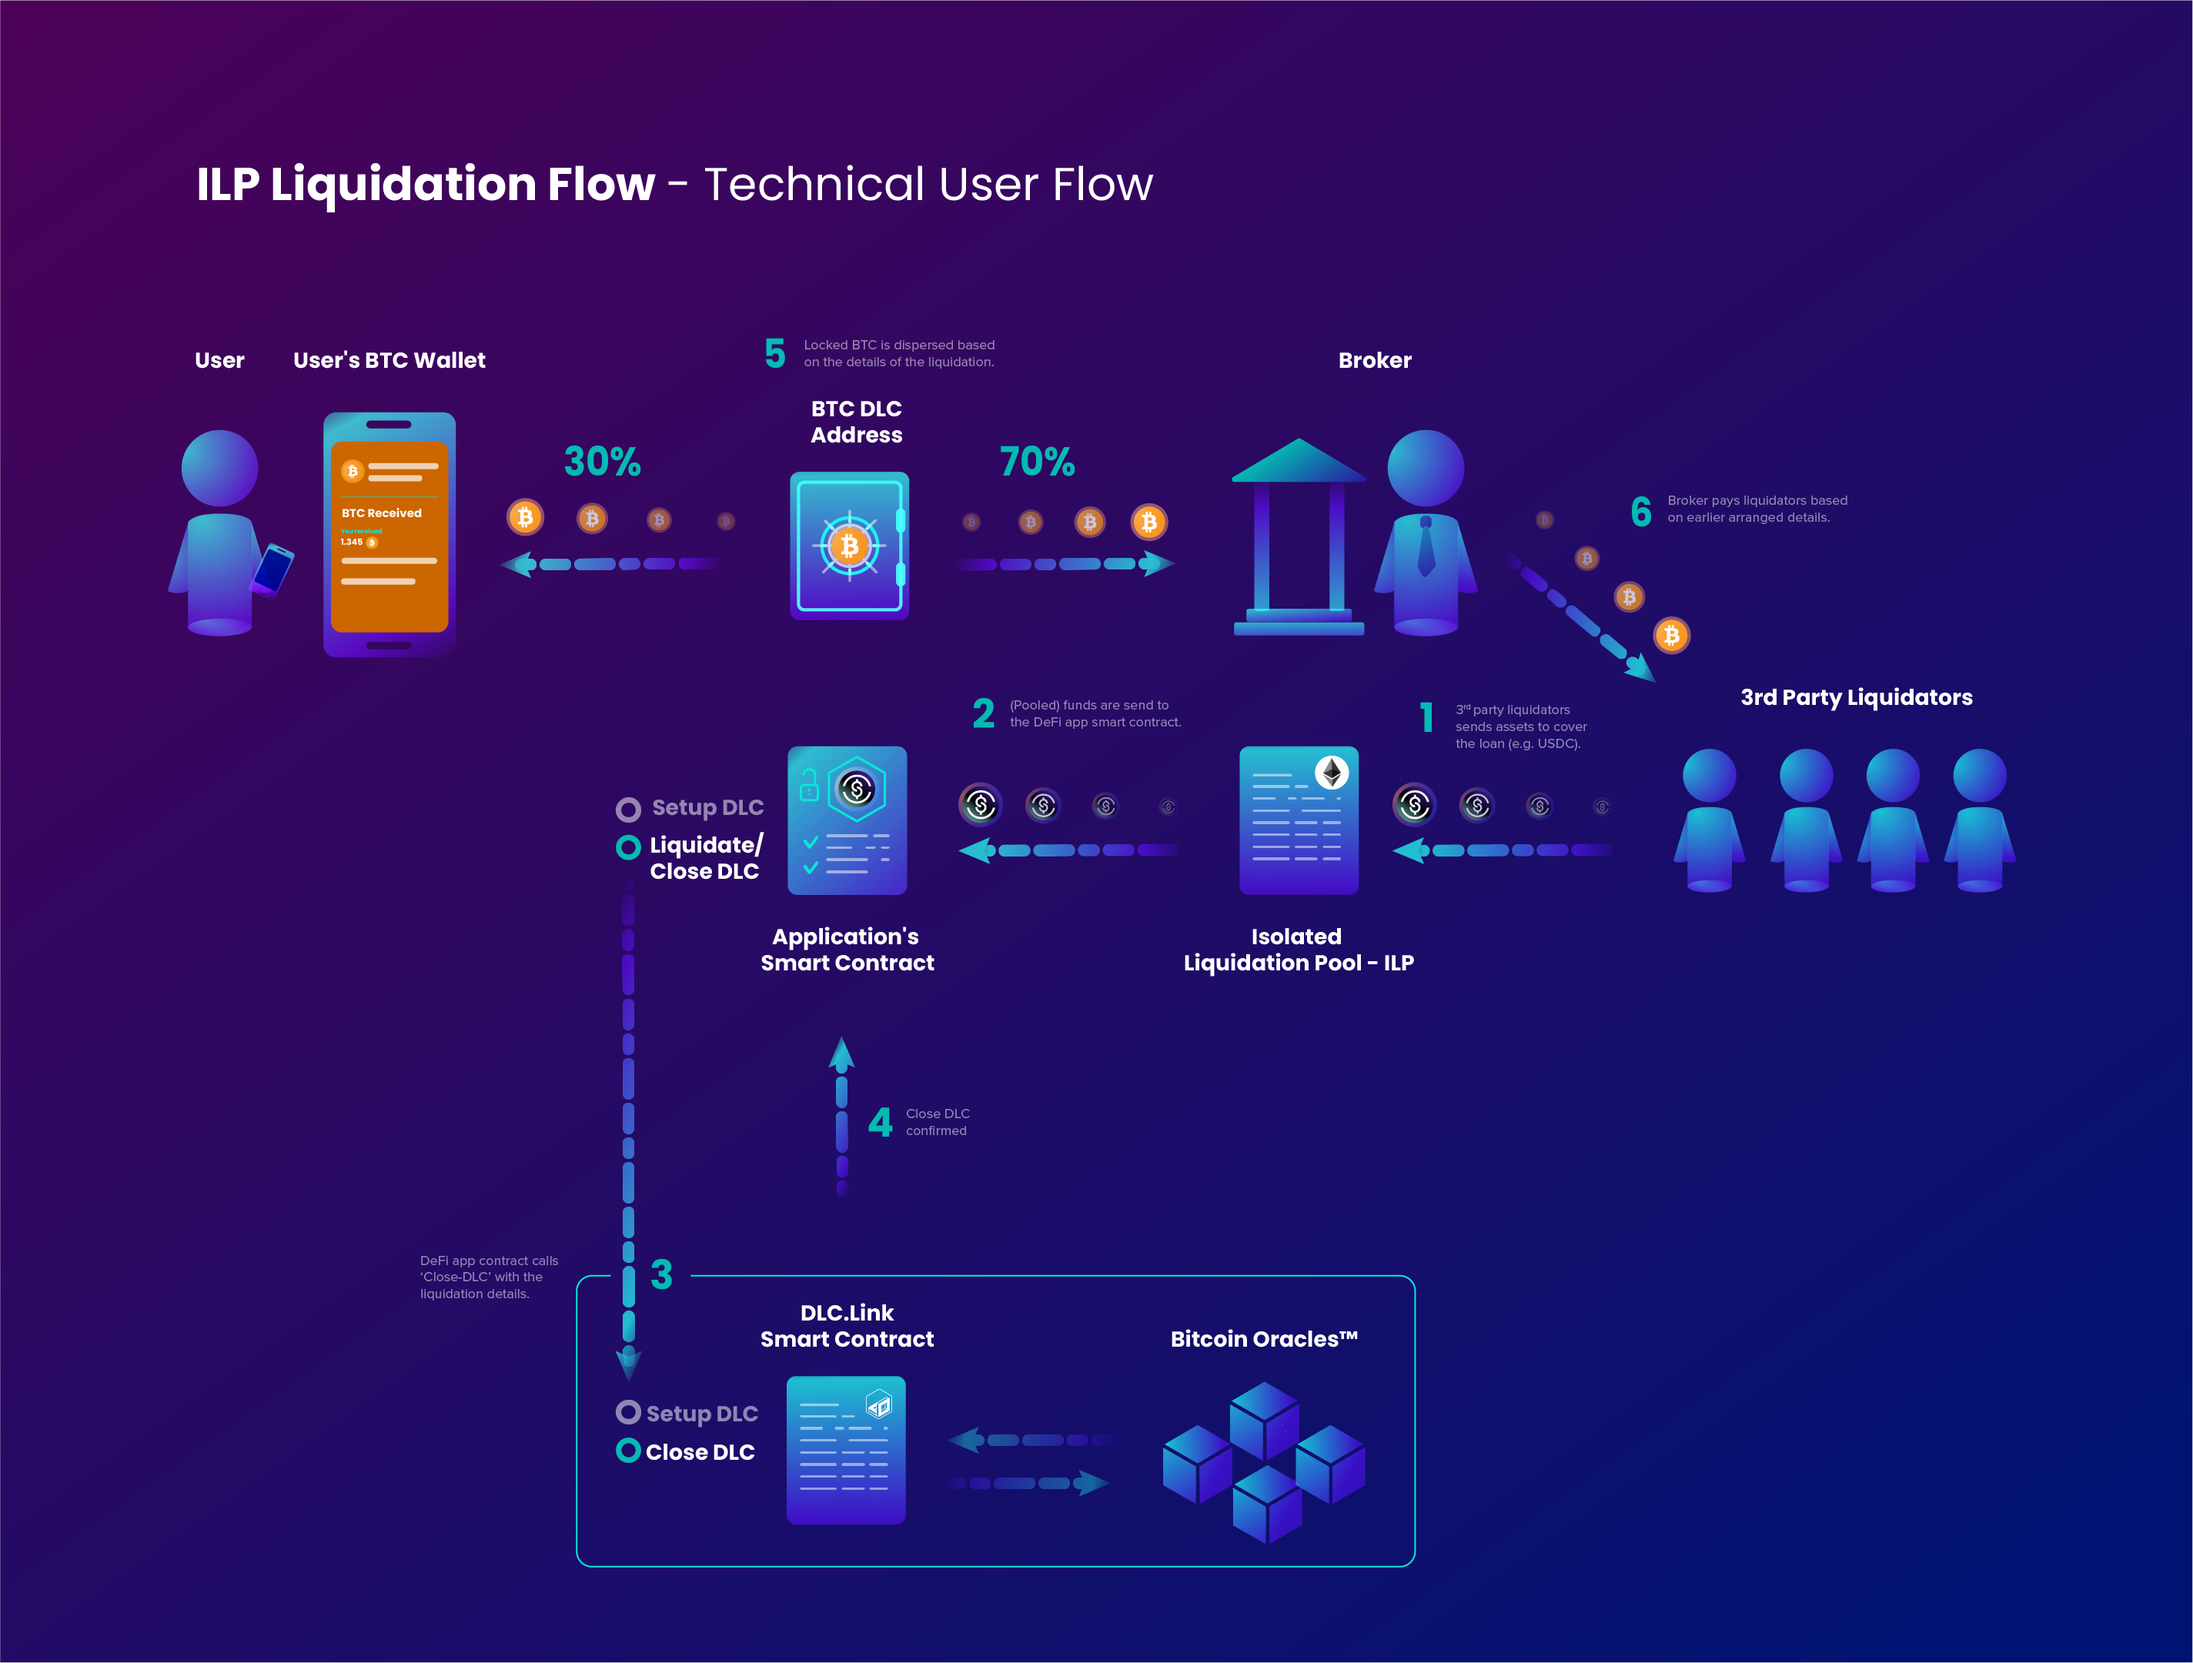
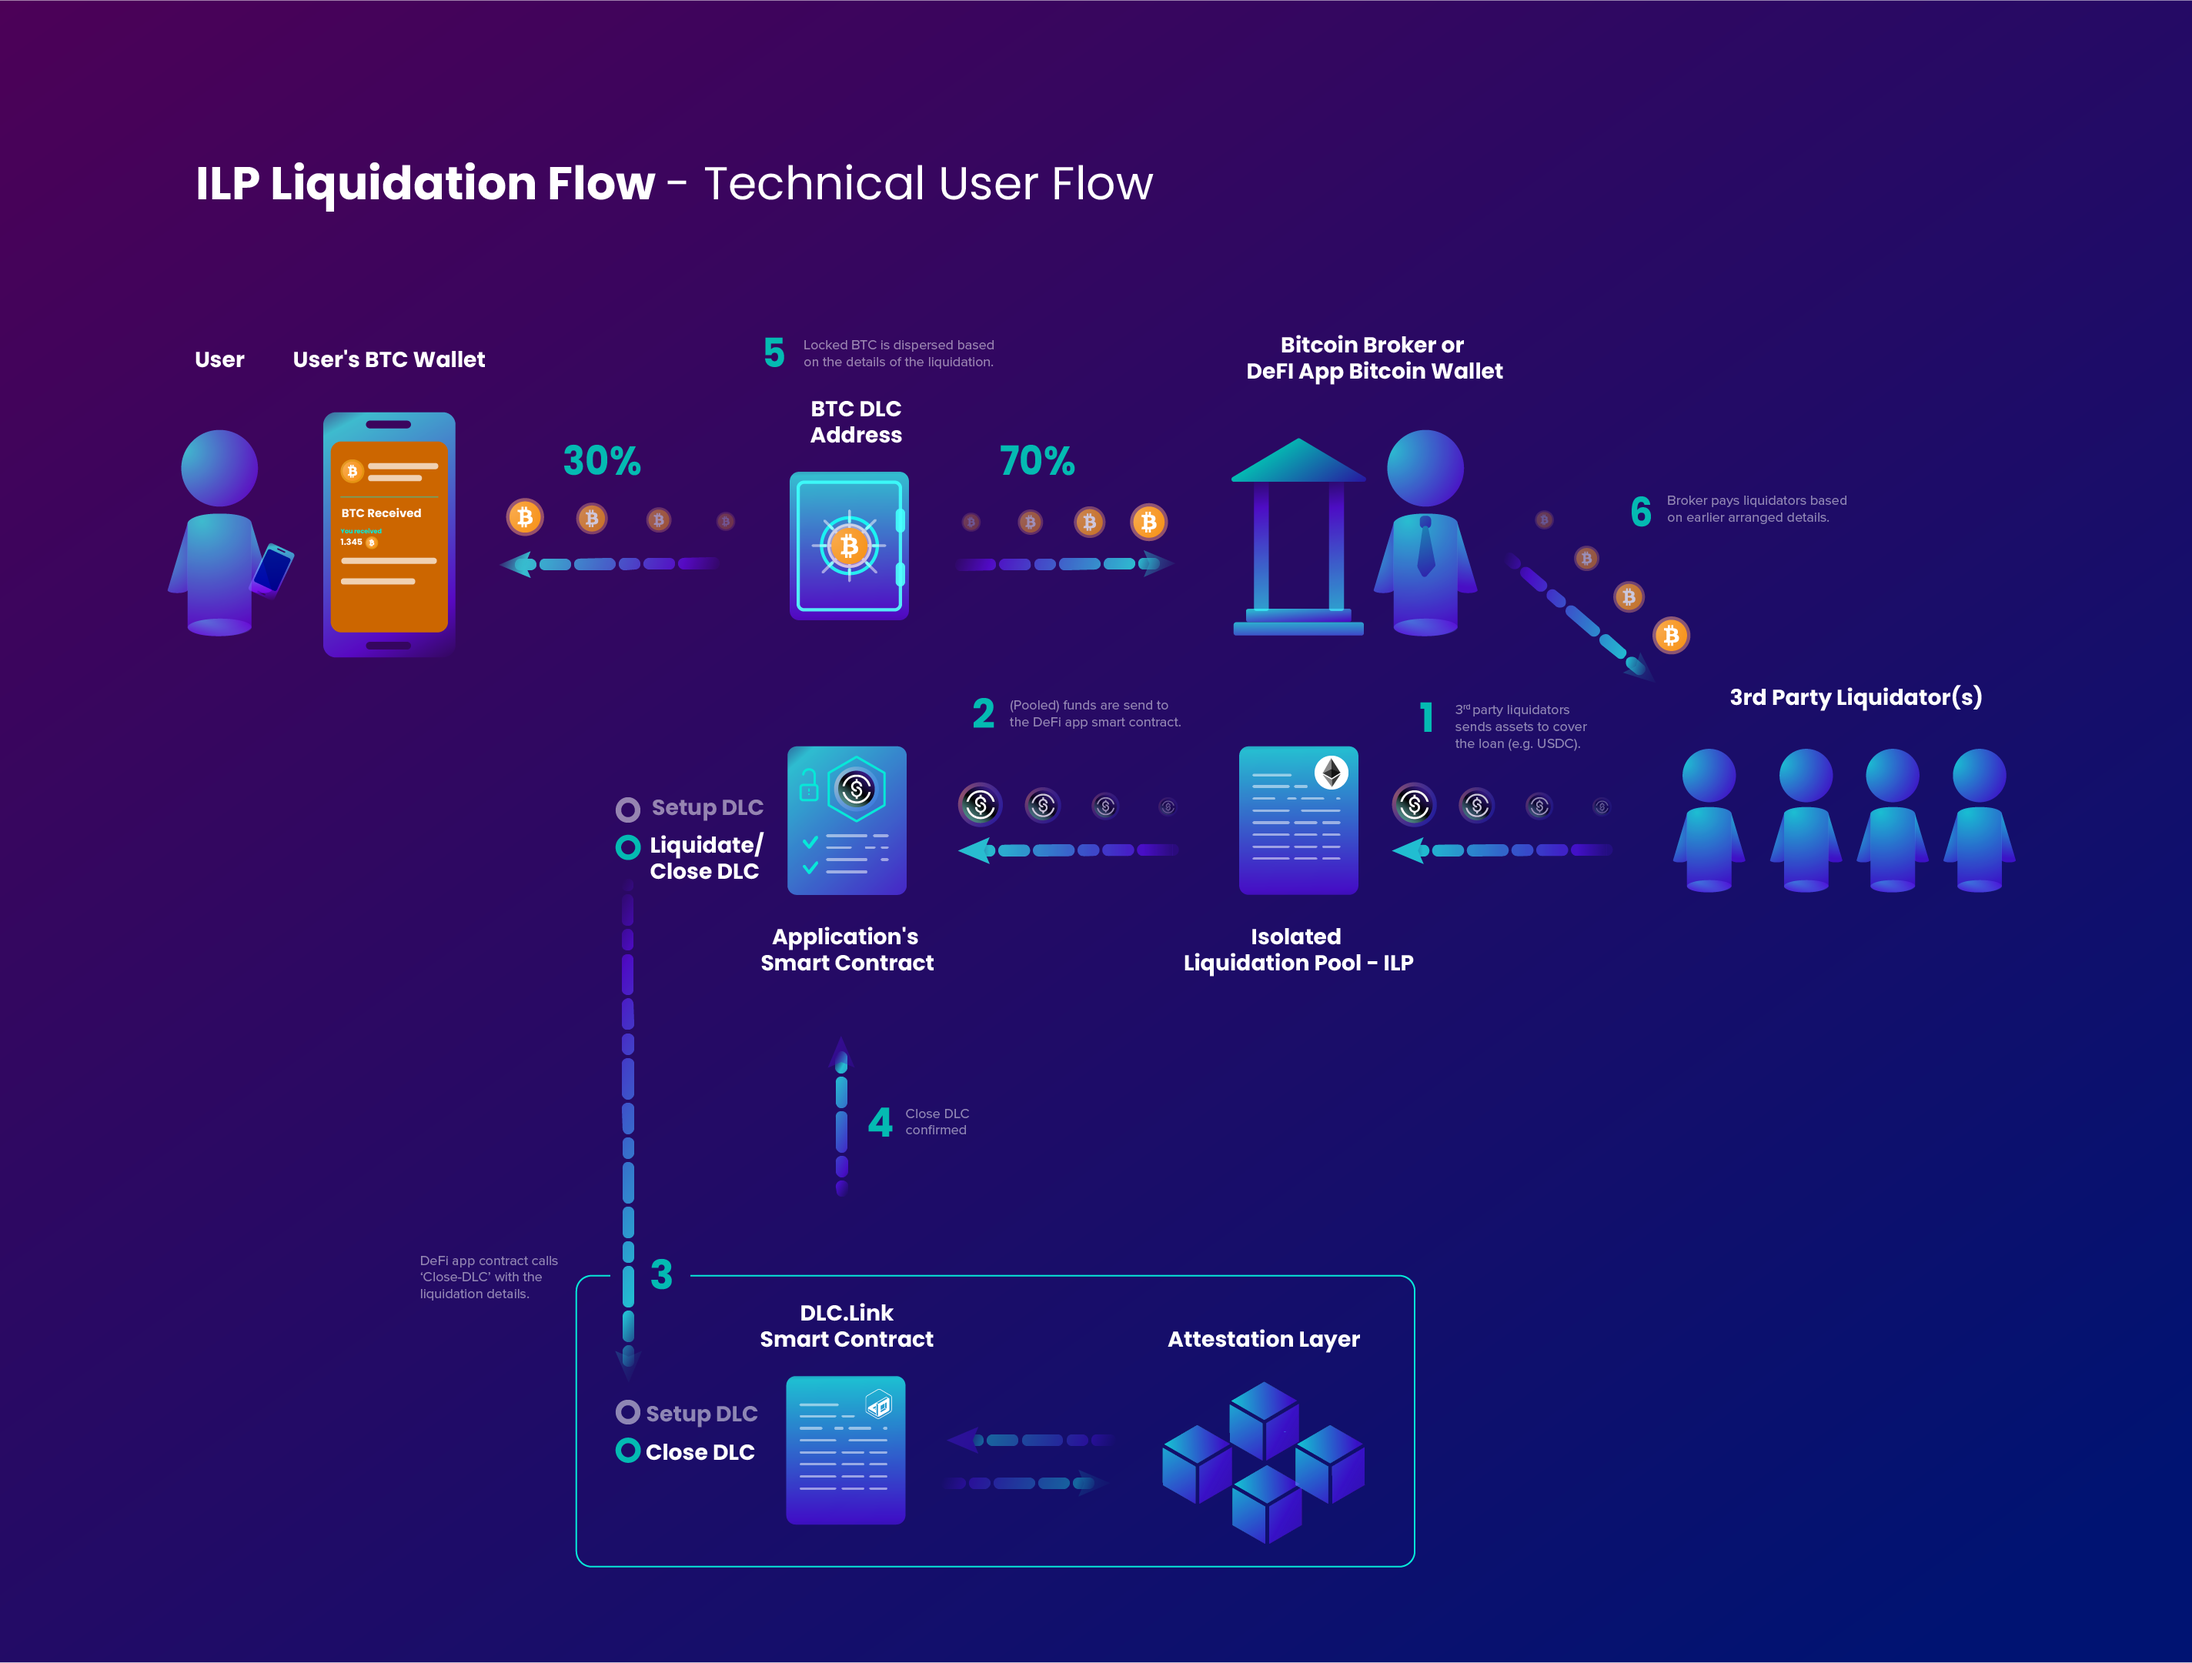
GITBOOK-79: change request with no subject merged in GitBook

diff --git a/architecture/technical-application-designs/simple-case.md b/architecture/technical-application-designs/simple-case.md
@@ -12,7 +12,7 @@ The DLC.Link architecture can be understood more thoroughly through the example 
 
 ### Open Loan Flow Example
 
-<figure><img src="../../.gitbook/assets/DLC.Link_OpenLoan_TechnicalFlow_NewA5.png" alt=""><figcaption></figcaption></figure>
+<figure><img src="../../.gitbook/assets/DLC.Link_OpenLoan_TechnicalFlow_NewA5 (1).png" alt=""><figcaption></figcaption></figure>
 
 In the above example, a user wants to use native, self-custodial bitcoin as collateral for a stable-coin loan on a blockchain such as Ethereum, Stacks, or many others.&#x20;
 
@@ -24,7 +24,7 @@ In the above example, a user wants to use native, self-custodial bitcoin as coll
 
 ### Close Loan via Repayment Flow
 
-<figure><img src="../../.gitbook/assets/DLC.Link_CloseLoan_TechnicalFlow_NewA.png" alt=""><figcaption></figcaption></figure>
+<figure><img src="../../.gitbook/assets/DLC.Link_CloseLoan_TechnicalFlow_NewA (1).png" alt=""><figcaption></figcaption></figure>
 
 Above a user wants to repay their stable-coin loan and regain access to their bitcoin collateral.&#x20;
 
@@ -39,4 +39,4 @@ Above a user wants to repay their stable-coin loan and regain access to their bi
 
 When the value of a user's collateral drops below a certain threshold, there can be a liquidation event. Here, a **liquidator** identifies the undercollateralized loan and starts a process to repay the loaned asset and 'buy out' the remaining collateral at a discount, thus keeping the value of the loaned asset stable.
 
-<figure><img src="../../.gitbook/assets/DLC.Link_SimpleLiquidationFlow (1).png" alt=""><figcaption></figcaption></figure>
+<figure><img src="../../.gitbook/assets/DLC.Link_SimpleLiquidationFlow.png" alt=""><figcaption></figcaption></figure>

diff --git a/architecture/technical-application-designs/with-broker.md b/architecture/technical-application-designs/with-broker.md
@@ -10,7 +10,7 @@ If the user were to repay the loan, the **Broker** ends up not participating in 
 \
 However, in the liquidation case, the **Broker** will be collecting the collateral, and thus prior to that is responsible for suring-up the loaned asset. In the example below, the **Broker** pays USDC stablecoin to cover the loan, and once the DLC is signed, the Bitcoin collateral is sent to the **Broker** to cover their costs plus fees.
 
-<figure><img src="../../.gitbook/assets/DLC.Link_SimpleLiquidationFlow (1).png" alt=""><figcaption></figcaption></figure>
+<figure><img src="../../.gitbook/assets/DLC.Link_SimpleLiquidationFlow.png" alt=""><figcaption></figcaption></figure>
 
 ### Isolated Liquidity Pool - Liquidation Flow
 
@@ -20,7 +20,7 @@ The term Isolated Liquidity Pool refers to a Smart Contract that allows for mult
 
 See below for an example setup of a **Broker** supported Bitcoin-collateral loan with an isolated liquidity pool.
 
-<figure><img src="../../.gitbook/assets/DLC.Link_IPLLiquidationFlow (1).png" alt=""><figcaption></figcaption></figure>
+<figure><img src="../../.gitbook/assets/DLC.Link_IPLLiquidationFlow.png" alt=""><figcaption></figcaption></figure>
 
 ### Detailed View of Propine Isolated Liquidity Pool
 

diff --git a/additional-resources/discreet-log-contracts.md b/additional-resources/discreet-log-contracts.md
@@ -1,8 +1,9 @@
 # Discreet Log Contracts
 
 Please see our associated blog posts which discuss DLCs in more details:\
-[https://www.dlc.link/blog/what-are-dlcs-and-dlc-oracles](https://www.dlc.link/blog/what-are-dlcs-and-dlc-oracles)\
-[https://www.dlc.link/blog/what-is-a-bitcoin-oracle](https://www.dlc.link/blog/what-is-a-bitcoin-oracle)
+[https://www.dlc.link/blog/what-are-dlcs-and-dlc-attesters](https://www.dlc.link/blog/what-are-dlcs-and-dlc-attesters)\
+[https://www.dlc.link/blog/what-is-a-bitcoin-attester](https://www.dlc.link/blog/what-is-a-bitcoin-attester)\
+
 
 <figure><img src="../.gitbook/assets/DLC.Link_WhatAreDLCs_B.png" alt=""><figcaption></figcaption></figure>
 
